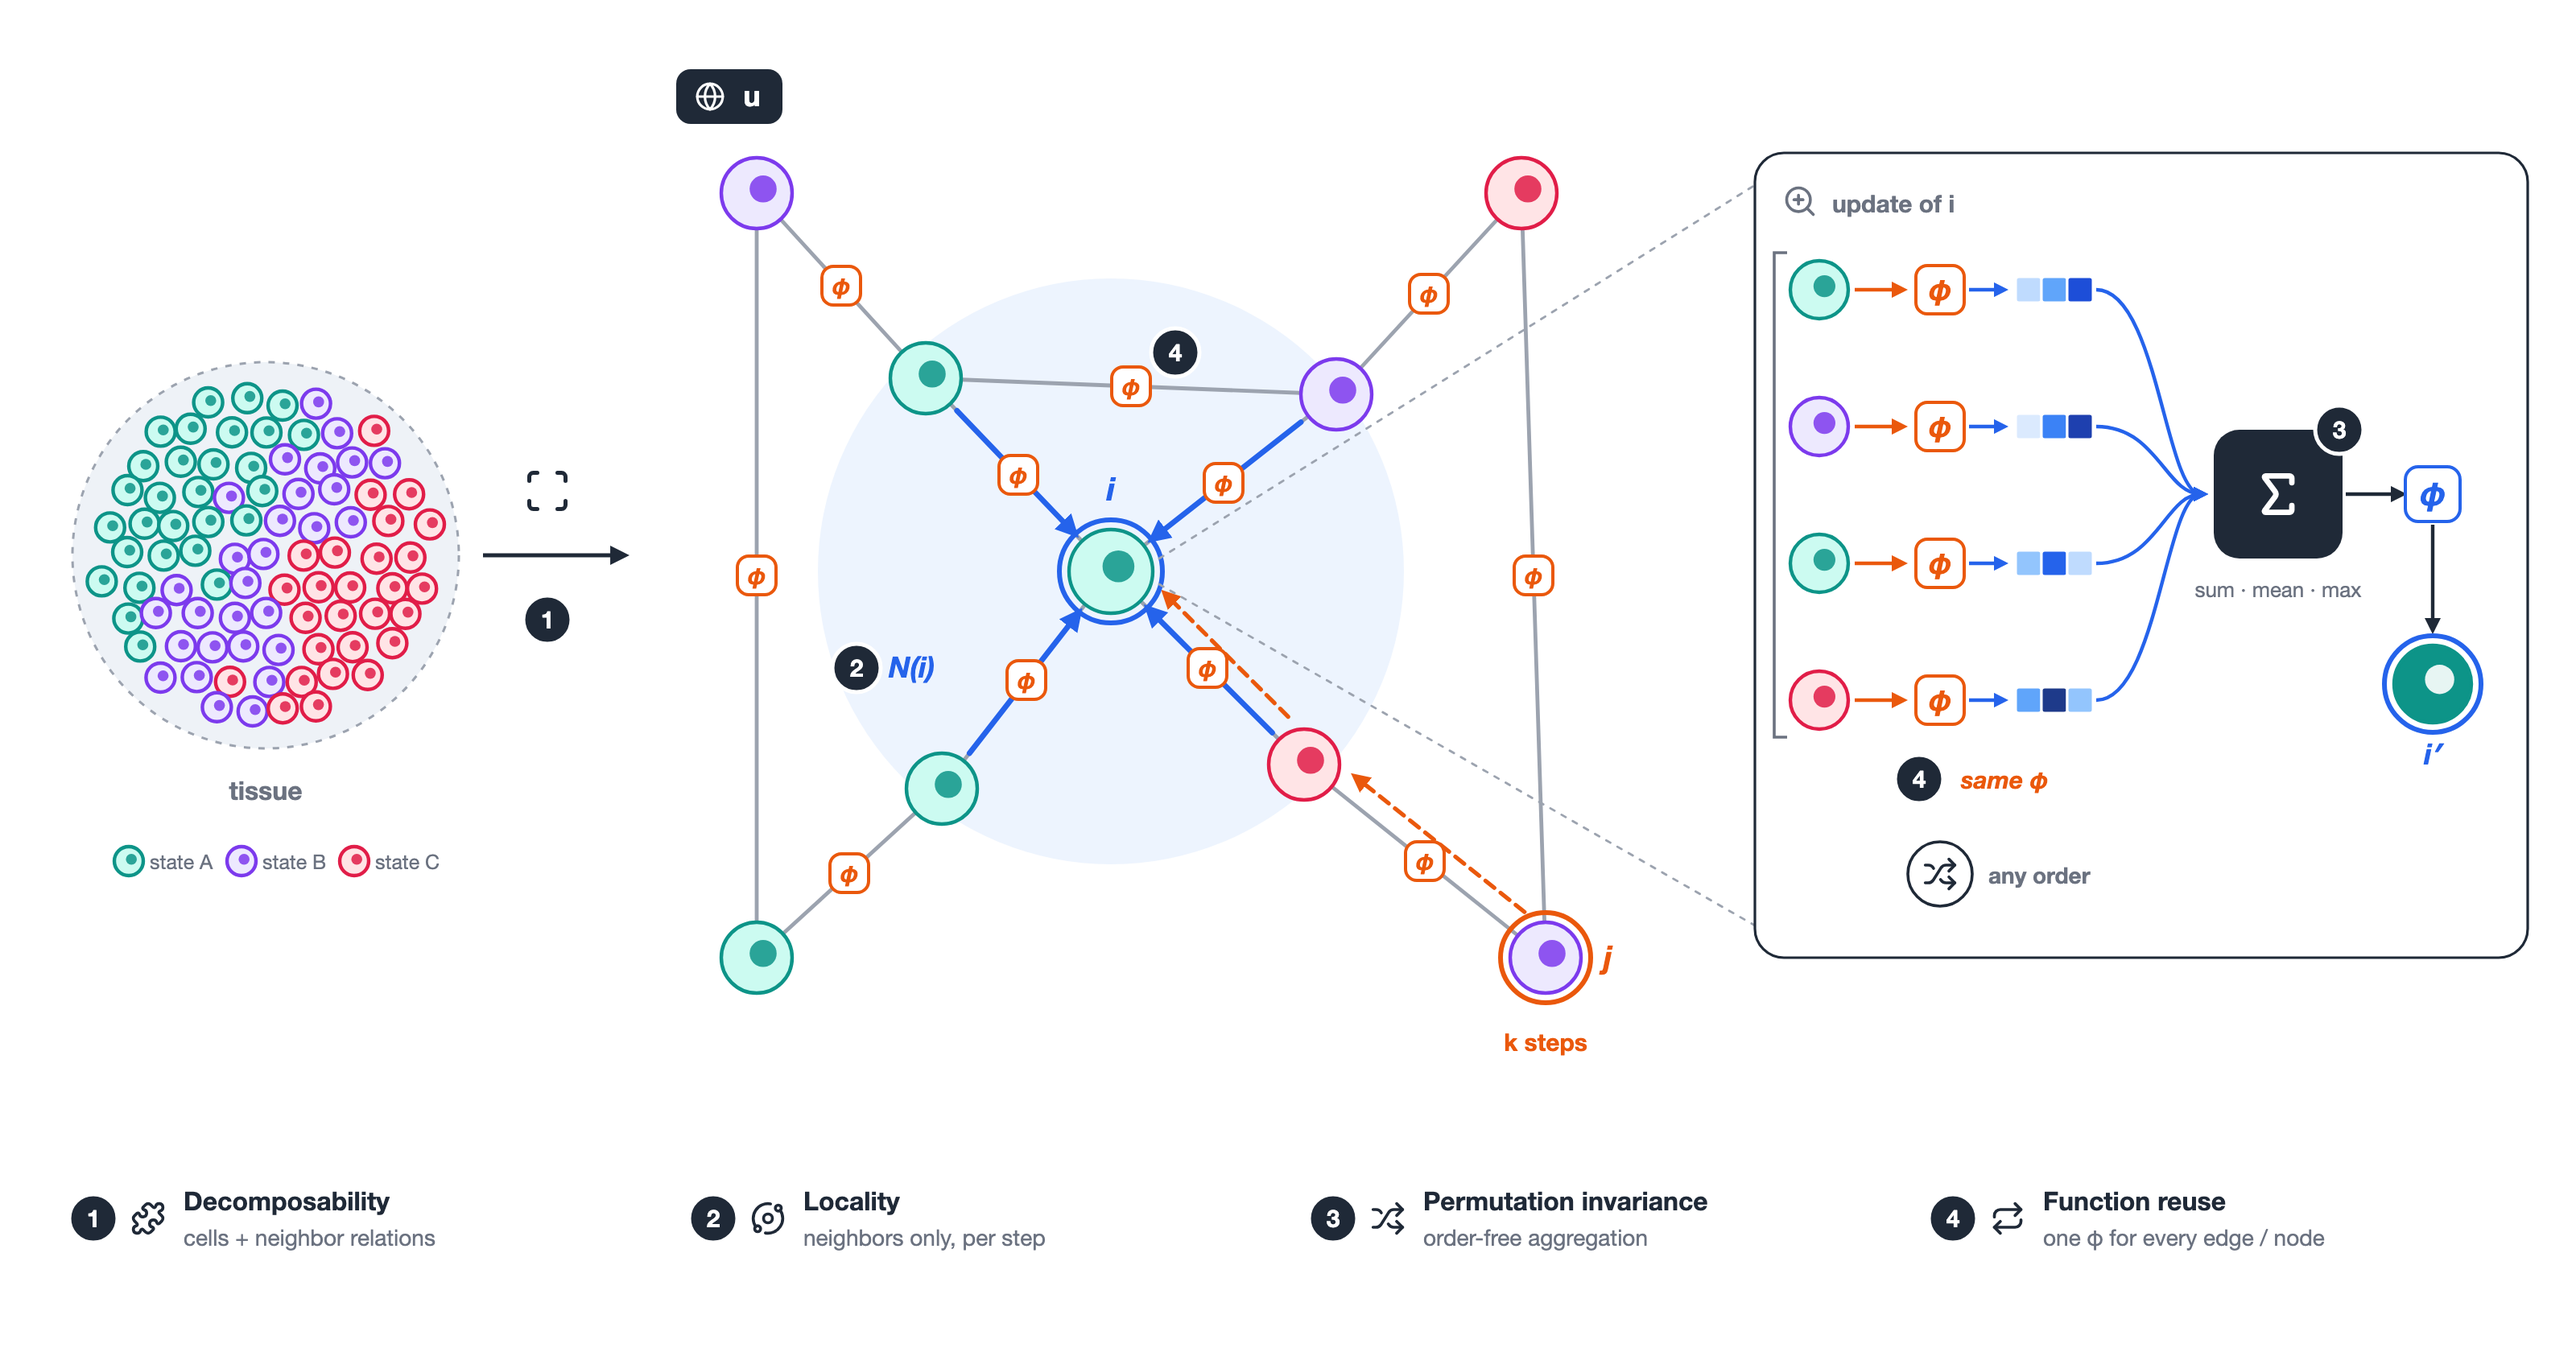
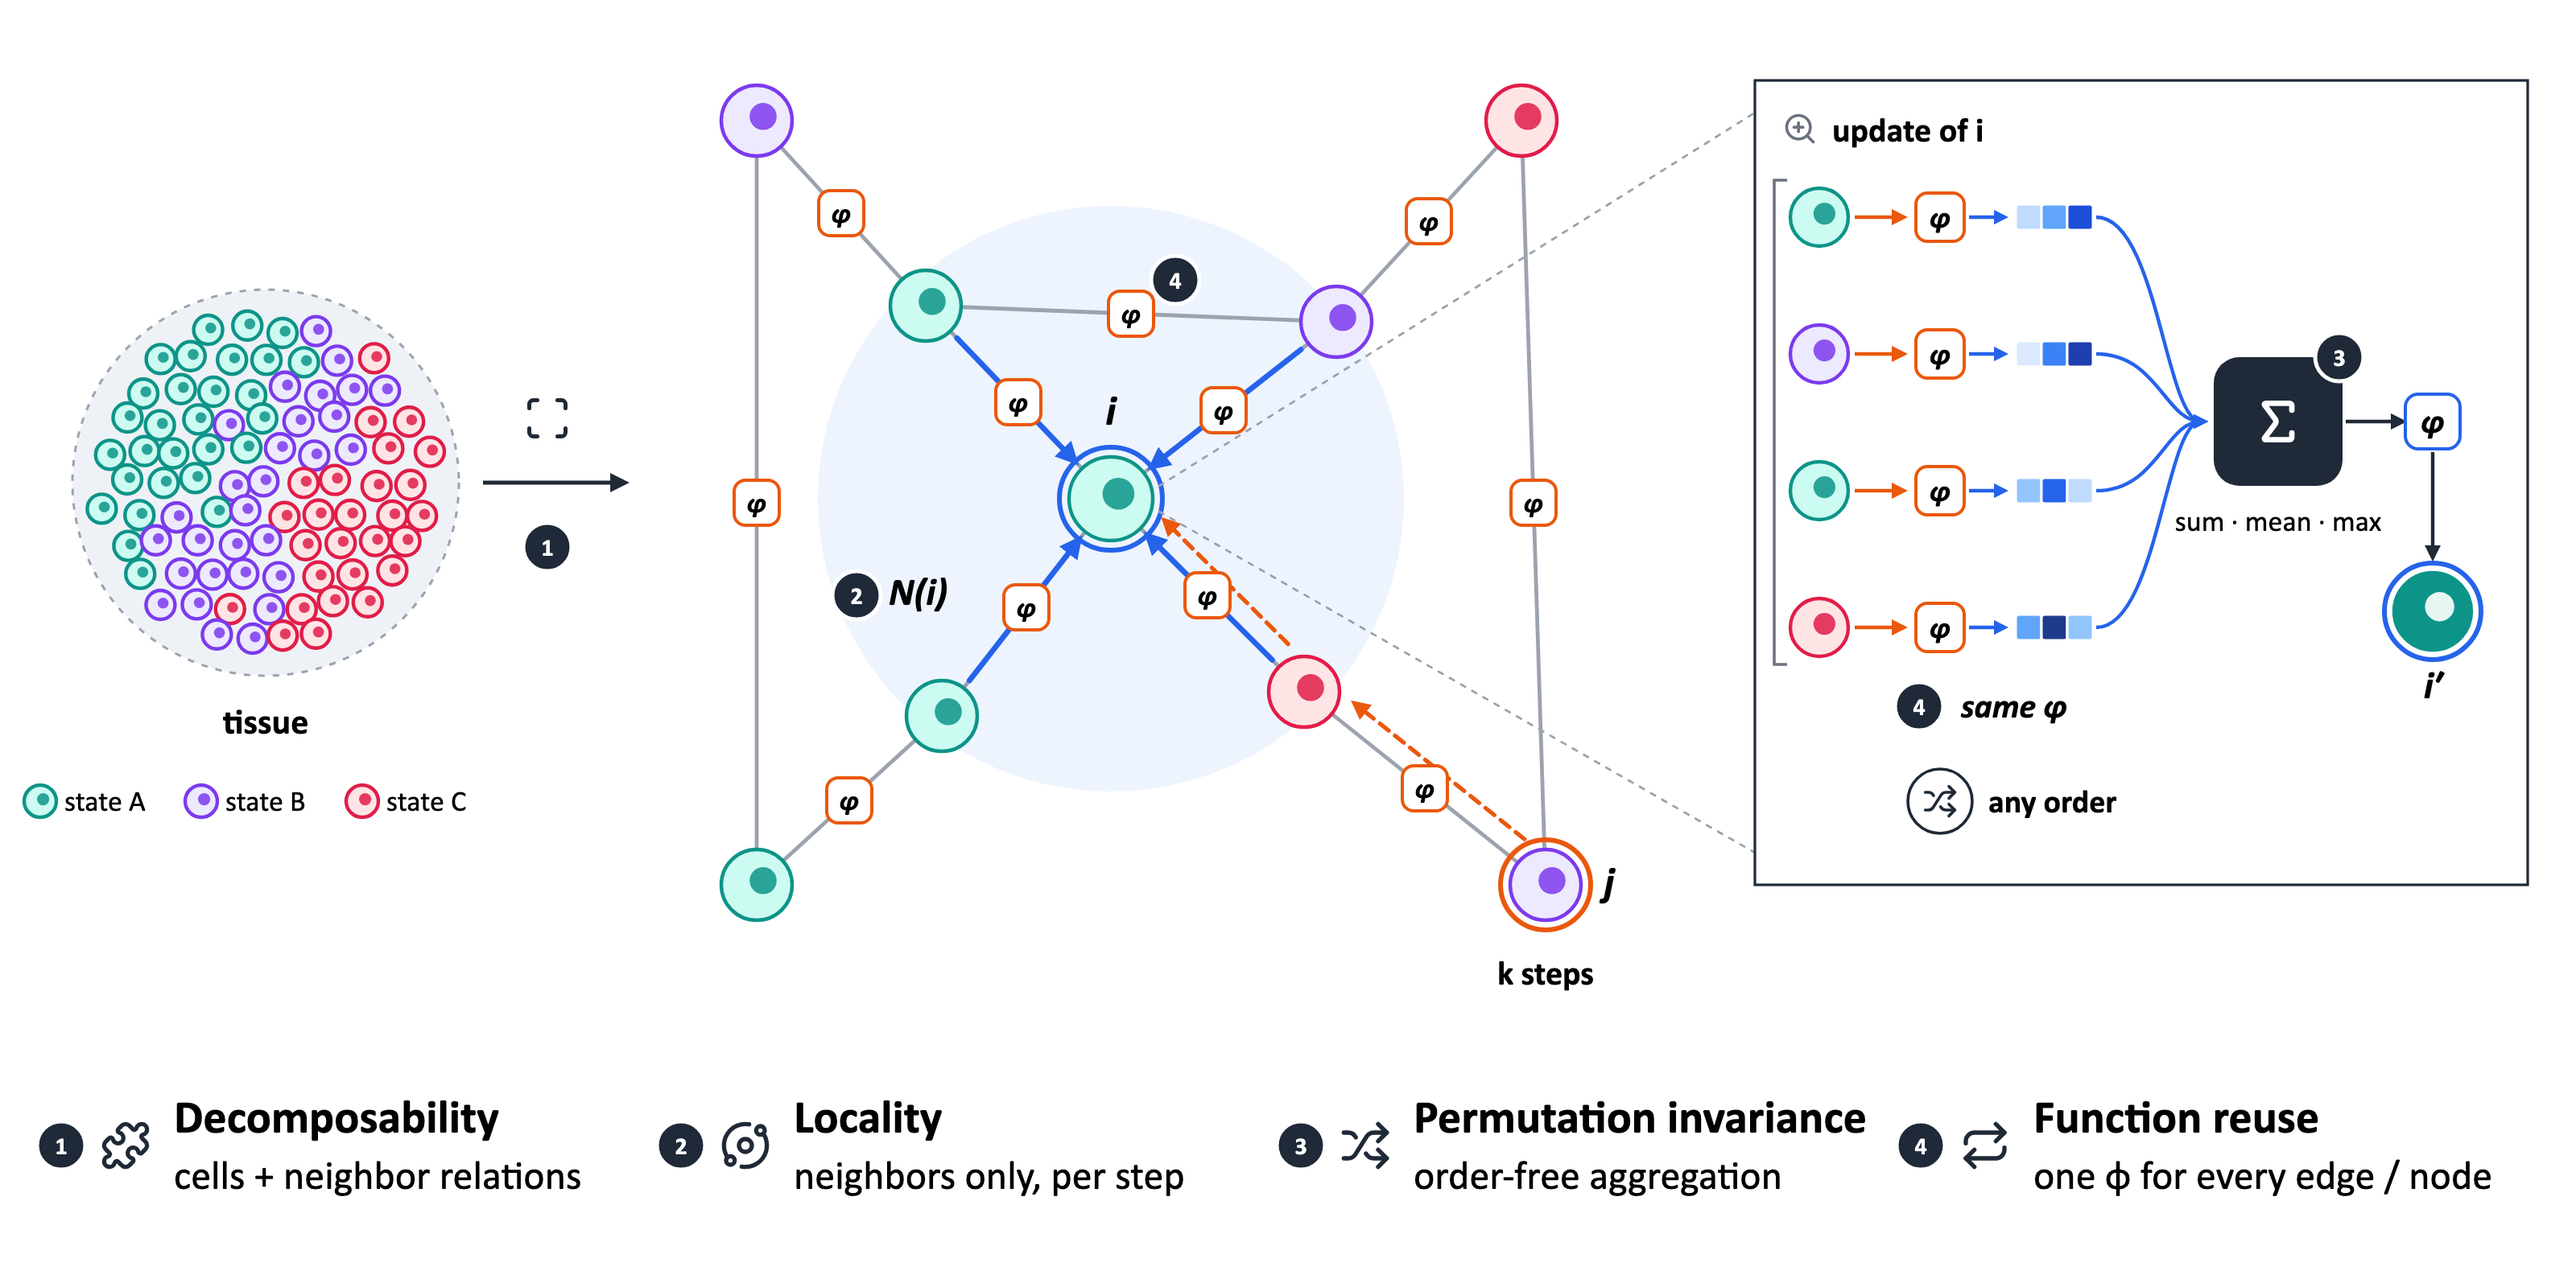
edited figure

diff --git a/_posts/Bioinformatics/2026-10-5-What Does Graph Structure Add to Biological Representation Learning?.md b/_posts/Bioinformatics/2026-10-5-What Does Graph Structure Add to Biological Representation Learning?.md
@@ -34,7 +34,7 @@ excerpt: ""
 
 {% include figure image_path="/assets/image/graph_inductive_biases_cells.png" alt="조직의 세포를 그래프로 표현하고 이웃의 메시지를 모아 노드를 갱신하는 과정으로 나타낸 네 가지 귀납적 편향: 분해 가능성, 국소성, 순열 불변성, 함수 재사용" %}
 
-**첫째, 세계는 개체로 분해될 수 있다 (decomposability).** 그래프는 입력 자체를 (u, V, E)라는 분해된 자료구조로 받는다(*u는 전역 속성, V는 노드 집합, E는 엣지 집합*). 아키텍처가 강제하는 이 형식은, 세계가 그 내부가 아무리 복잡하더라도 이산적인 단위들과 그 사이의 관계로 분해된다는 존재론적 가정을 담고 있다. 이 가정에서는, 현상을 선택한 해상도에서 개체의 속성과 개체 사이의 관계로 표현하는 것이 과제 해결에 유용함을 전제한다.
+**첫째, 세계는 개체로 분해될 수 있다 (decomposability).** 그래프는 입력 자체를 (u, V, E)라는 분해된 자료구조로 받는다(*u는 전역 속성, V는 노드 집합, E는 엣지 집합*). 아키텍처가 강제하는 이 형식은, 세계가 그 내부가 아무리 복잡하더라도 이산적인 단위들과 그 사이의 관계로 분해된다는 존재론적 가정을 담고 있다. 이 가정에서는, 현상을 개체의 속성과 개체 사이의 관계로 표현하는 것이 과제 해결에 유용함을 전제한다.
 
 **둘째, 상호작용은 국소적이다 (locality).** 한 시점에 어떤 노드에 직접 영향을 주는 것은 엣지로 연결된 이웃뿐이며, 멀리 있는 노드의 영향은 반드시 중간 단계를 거쳐 매개된다. 이 개념은 원격 작용(action at a distance)을 부정하는 근대 물리학의 장(field) 개념과 닮아 있다. 태양이 지구를 당기는 것은 원거리 상호작용이 아니라, 태양이 주변 시공간을 변형시키고 그 변형이 공간을 통해 국소적으로 전파되어 지구에 도달하는 과정으로 기술된다. 이 가정은 학습해야 할 상호작용의 공간을 극적으로 줄인다. 연결된 쌍 수준의 국소 규칙만 배우고, 전역적 결론은 그 규칙의 반복적 조합(message passing)으로 얻기 때문이다. (*다만 전역 속성을 공유하거나 모든 노드 쌍을 연결하는 구성에서는 정보 전달의 범위가 달라진다.*)
 
